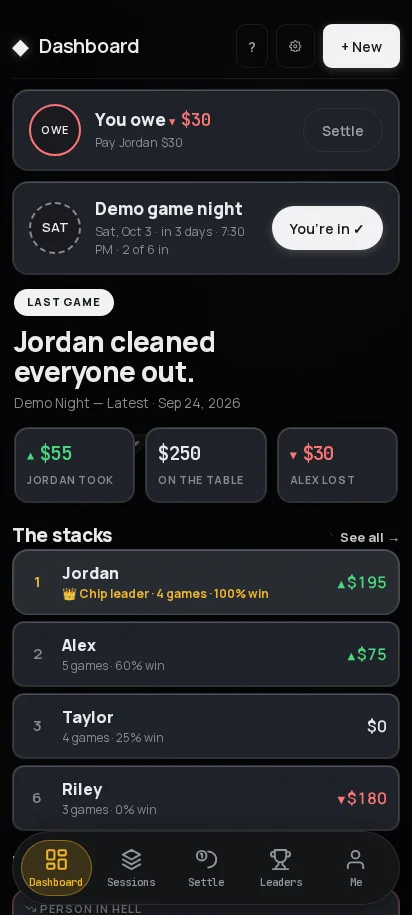
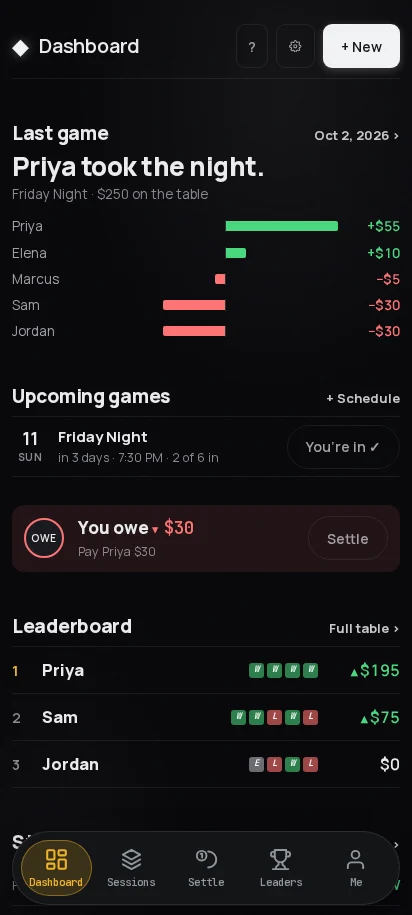
Swap in Poker Money's fresh store screenshots
The three frames now come from the poker-tracker repo's fresh store
screenshots (6d39575, 8 Oct 2026): the new Home with last game, upcoming
games, what you owe and the leaderboard; Sessions with open seats and
nights grouped by month; and the all-time table. Re-encoded to WebP at
the same 412x915, alt text rewritten to match what each frame now shows,
and the provenance sidecars updated.

Claude-Session: https://claude.ai/code/session_01F2z1ogVXjbziJAMEodbUSY

diff --git a/index.html b/index.html
@@ -421,9 +421,9 @@
 
     <div class="proj">
       <div class="proj__frames" data-plot="frames">
-        <img src="assets/pokermoney/dashboard.webp" alt="Poker Money dashboard: who owes whom, the next game night, and last game's winner" width="412" height="915" loading="lazy" />
-        <img src="assets/pokermoney/sessions.webp" alt="Poker Money sessions: an upcoming game with RSVPs, play history and session records" width="412" height="915" loading="lazy" />
-        <img src="assets/pokermoney/leaderboard.webp" alt="Poker Money leaderboard: a league table with form guide and lifetime points" width="412" height="915" loading="lazy" />
+        <img src="assets/pokermoney/dashboard.webp" alt="Poker Money dashboard: last game's result by player, the next game night, what you owe and the leaderboard" width="412" height="915" loading="lazy" />
+        <img src="assets/pokermoney/sessions.webp" alt="Poker Money sessions: an upcoming game with RSVPs and open seats, and past nights grouped by month" width="412" height="915" loading="lazy" />
+        <img src="assets/pokermoney/leaderboard.webp" alt="Poker Money leaderboard: the all-time table with each player's form and net result" width="412" height="915" loading="lazy" />
       </div>
       <div class="proj__body">
         <dl class="spec">
